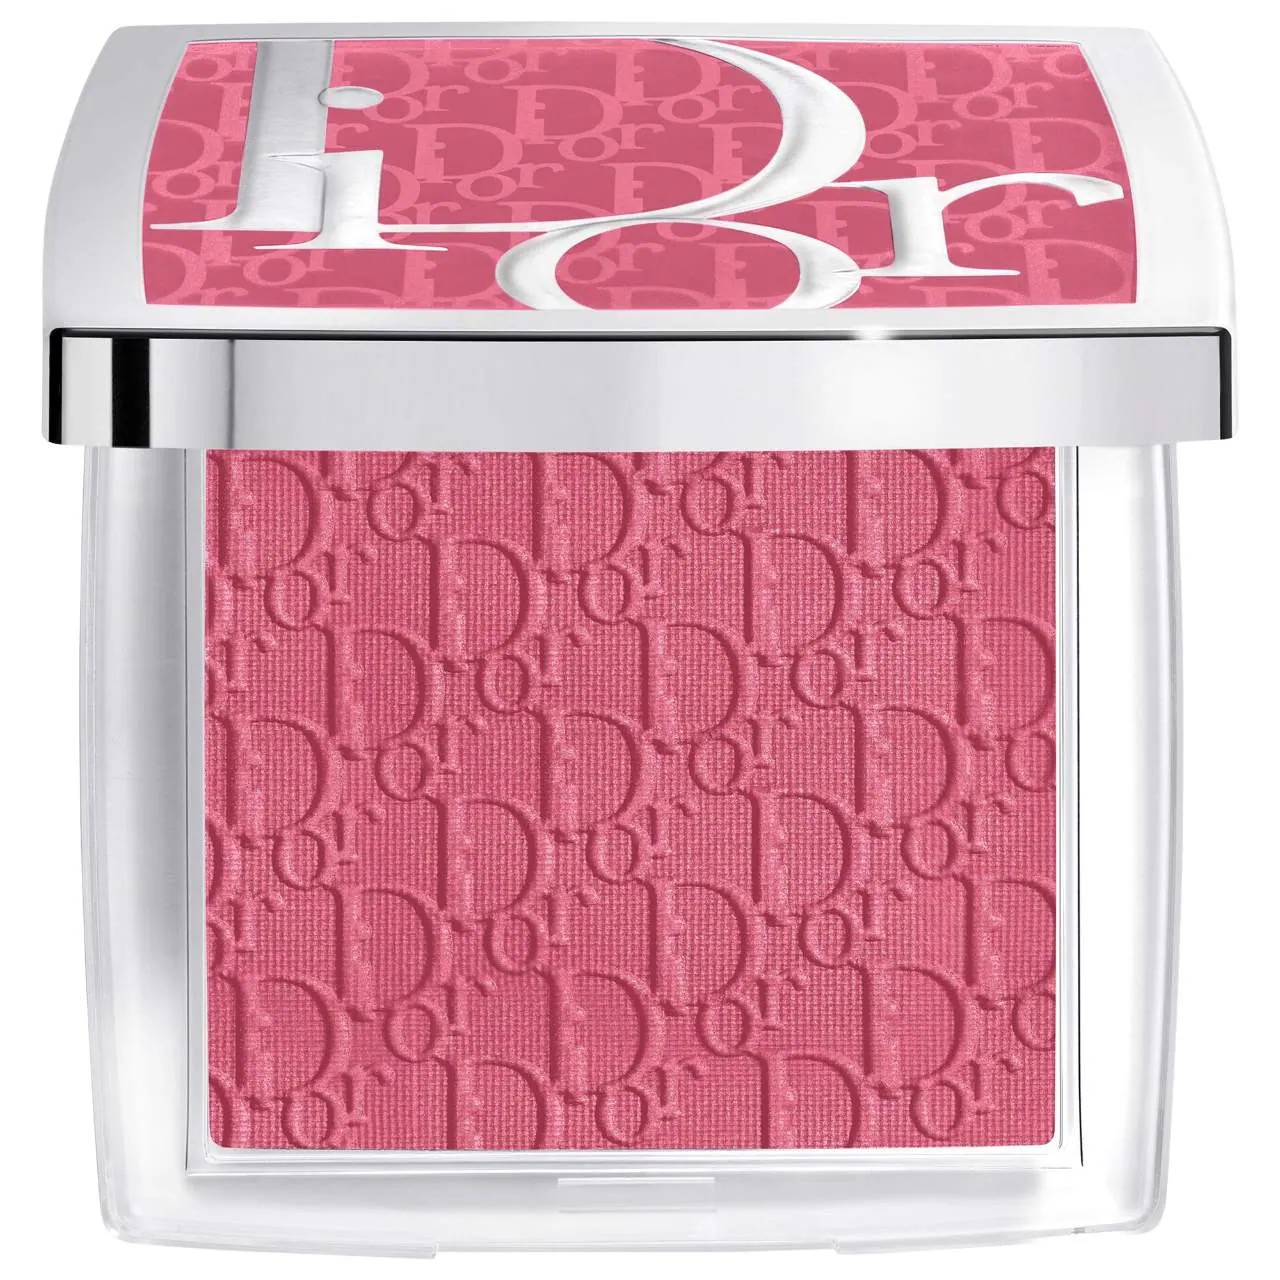
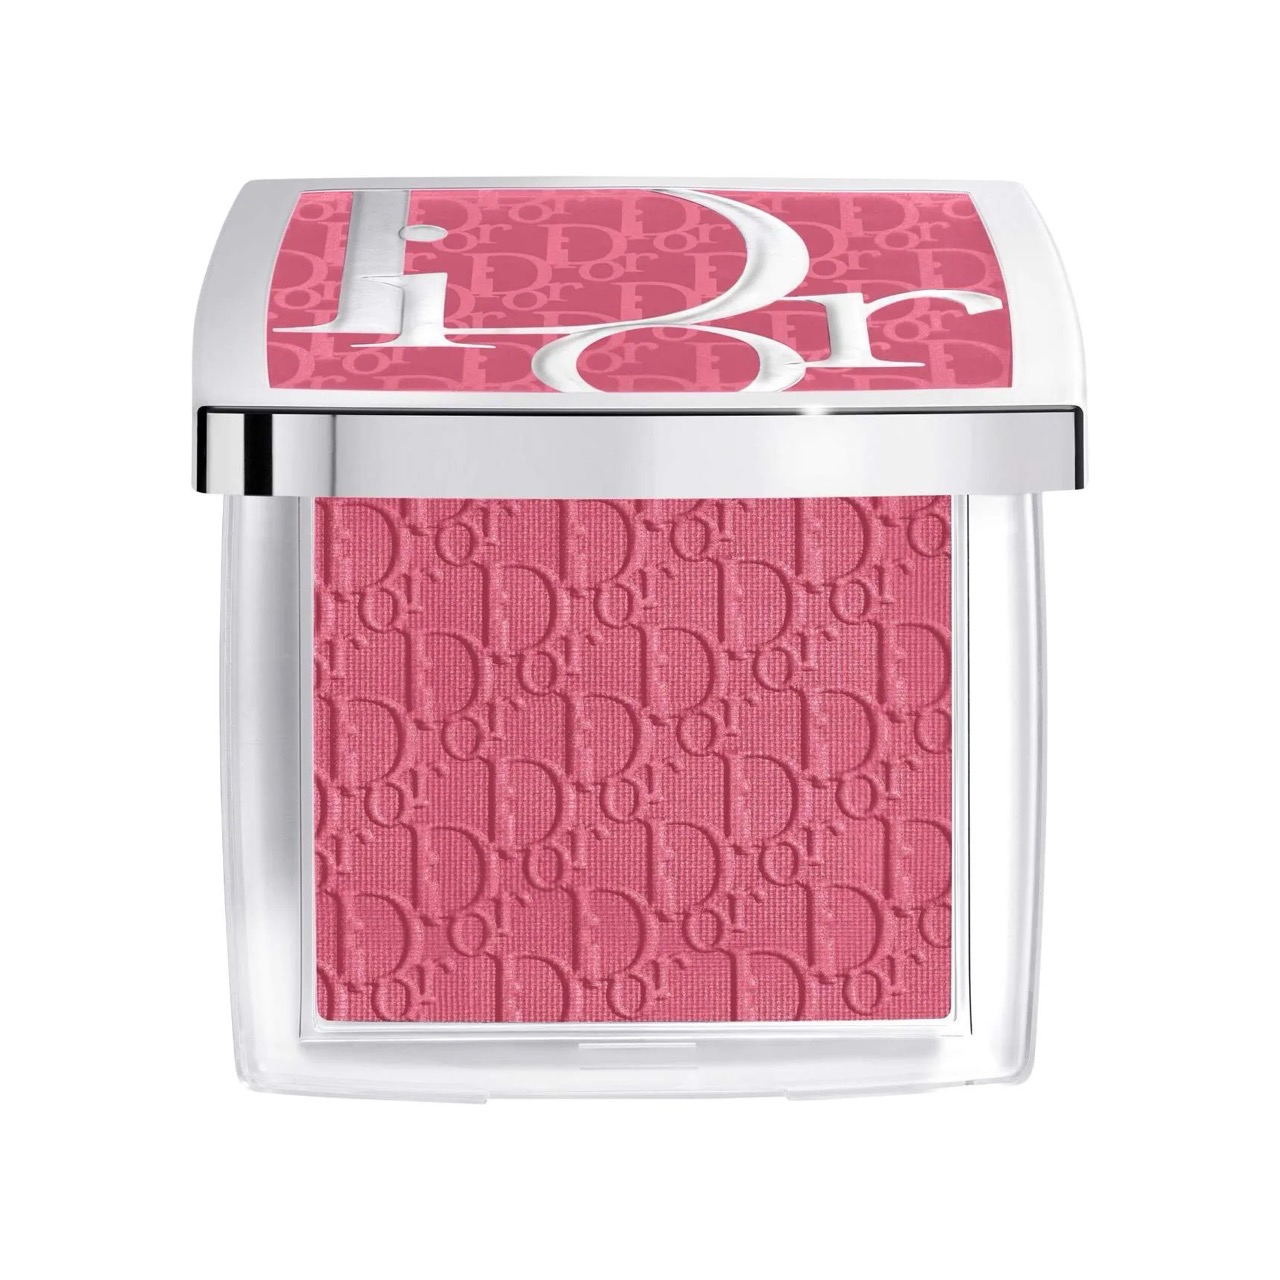
fix: corrige fotos e adiciona produtos conforme revisão
- Dior Lip Glow Oil: separado em 2 produtos (Rosa e Mocha Brilhante)
- Dior Rosy Glow Blush: separado em 2 produtos (Rosa e Toffee) + zoom-out
- Givenchy: fotos e produtos corrigidos para Le Rouge Sheer Velvet (Rouge Graine e Beige Sablé)
- Fenty Beauty: fotos reais por tom (Golden Ivory, Honey, Toffee) + Gloss Bomb foto corrigida
- YSL Loveshine: fotos corrigidas com cores reais (California Sunshine, Lucky Moonstone)
- Apple: adicionado em masculino e feminino (BRANDS_BY_GENDER + produtos IDs 287-288)
- Promo "3 por R$189,90": restrita a produtos VS com tag fragrance
- 8 novos body splash VS Mist (IDs 289-296) com foto real da embalagem spray
- iPhone 16 Pro Max: foto atualizada com imagem da pasta new_clothes

diff --git a/main.js b/main.js
@@ -2027,17 +2027,33 @@ const PRODUCTS = [
     id: 254, brand: 'Christian Dior', gender: 'feminino',
     tags: ['acessorio'],
     price: 259.20,
-    name: 'Lip Glow Oil Hydrating High-Shine Gloss',
-    images: ['feminino/dior/dior-lip-glow-oil-1.jpg', 'feminino/dior/dior-lip-glow-oil-2.jpg'],
-    description: 'Óleo labial Dior Lip Glow Oil de alto brilho com fórmula hidratante — realça a cor natural dos lábios com efeito glossy sofisticado. Disponível nos acabamentos clássico e shimmer.',
+    name: 'Lip Glow Oil Hydrating High-Shine Gloss Rosa',
+    images: ['feminino/dior/dior-lip-glow-oil-1.jpg'],
+    description: 'Óleo labial Dior Lip Glow Oil de alto brilho em Rosa — fórmula hidratante que realça a cor natural dos lábios com efeito glossy rosado e luminoso. Ícone de beleza da maison.',
+  },
+  {
+    id: 285, brand: 'Christian Dior', gender: 'feminino',
+    tags: ['acessorio'],
+    price: 259.20,
+    name: 'Lip Glow Oil Hydrating High-Shine Gloss Mocha Brilhante',
+    images: ['feminino/dior/dior-lip-glow-oil-2.jpg'],
+    description: 'Óleo labial Dior Lip Glow Oil em Mocha Brilhante — acabamento shimmer com brilho intenso e toque nudes quente. Hidratação luxuosa com a sofisticação da maison parisiense.',
   },
   {
     id: 255, brand: 'Christian Dior', gender: 'feminino',
     tags: ['acessorio'],
     price: 264.00,
-    name: 'Rosy Glow Powder Blush',
-    images: ['feminino/dior/dior-rosy-glow-blush-pink.jpg', 'feminino/dior/dior-rosy-glow-blush-toffee.jpg'],
-    description: 'Blush Dior Rosy Glow em pó com tecnologia que reage à temperatura da pele — realça o frescor natural nas tonalidades Pink e Toffee. Acabamento luminoso de longa duração.',
+    name: 'Rosy Glow Powder Blush Rosa',
+    images: ['feminino/dior/dior-rosy-glow-blush-pink.jpg'],
+    description: 'Blush Dior Rosy Glow em pó na tonalidade Rosa — tecnologia que reage à temperatura da pele e realça o frescor natural. Acabamento luminoso duradouro da maison.',
+  },
+  {
+    id: 286, brand: 'Christian Dior', gender: 'feminino',
+    tags: ['acessorio'],
+    price: 264.00,
+    name: 'Rosy Glow Powder Blush Toffee',
+    images: ['feminino/dior/dior-rosy-glow-blush-toffee.jpg'],
+    description: 'Blush Dior Rosy Glow em pó na tonalidade Toffee — dourado quente que realça o frescor natural da pele com acabamento luminoso sofisticado. Tecnologia exclusiva Dior.',
   },
 
   /* ══════════════════════════════════════════════════
@@ -2159,17 +2175,17 @@ const PRODUCTS = [
     id: 267, brand: 'YSL', gender: 'feminino',
     tags: ['acessorio'],
     price: 259.20,
-    name: 'Loveshine Plumping Lip Oil Gloss Dourado',
-    images: ['feminino/ysl/ysl-loveshine-lip-oil-gold.jpg'],
-    description: 'Lip oil YSL Loveshine com ácido hialurônico — fórmula volumizadora em tom dourado shimmer que hidrata e realça os lábios com alto brilho sofisticado.',
+    name: 'Loveshine Plumping Lip Oil Gloss California Sunshine',
+    images: ['feminino/ysl/ysl-loveshine-lip-oil-california-sunshine.jpg'],
+    description: 'Lip oil YSL Loveshine com ácido hialurônico em California Sunshine — tom laranja vibrante e luminoso que volumiza e hidrata os lábios com alto brilho de alta costura.',
   },
   {
     id: 268, brand: 'YSL', gender: 'feminino',
     tags: ['acessorio'],
     price: 259.20,
-    name: 'Loveshine Plumping Lip Oil Gloss',
-    images: ['feminino/ysl/ysl-loveshine-lip-oil.jpg'],
-    description: 'Lip oil YSL Loveshine com ácido hialurônico — fórmula volumizadora transparente que hidrata e realça os lábios com brilho natural de alta costura.',
+    name: 'Loveshine Plumping Lip Oil Gloss Lucky Moonstone',
+    images: ['feminino/ysl/ysl-loveshine-lip-oil-lucky-moonstone.jpg'],
+    description: 'Lip oil YSL Loveshine com ácido hialurônico em Lucky Moonstone — pérola rosada translúcida que ilumina e volumiza os lábios com o brilho iridescente da maison.',
   },
 
   /* ══════════════════════════════════════════════════
@@ -2236,15 +2252,19 @@ const PRODUCTS = [
     tags: ['acessorio'],
     price: 91.20, originalPrice: 182.40,
     name: 'Bright Fix Eye Brightener Concealer',
-    images: ['feminino/fenty-beauty/fenty-bright-fix-concealer.jpg'],
-    description: 'Corretivo iluminador Fenty Beauty Bright Fix by Rihanna — fórmula de longa duração que ilumina e cobre imperfeições. Ampla gama de tons com acabamento natural luminoso.',
+    images: [
+      'feminino/fenty-beauty/fenty-bright-fix-golden-ivory.jpg',
+      'feminino/fenty-beauty/fenty-bright-fix-honey.jpg',
+      'feminino/fenty-beauty/fenty-bright-fix-toffee.jpg',
+    ],
+    description: 'Corretivo iluminador Fenty Beauty Bright Fix by Rihanna — fórmula de longa duração que ilumina e cobre imperfeições. Disponível nos tons Golden Ivory, Honey e Toffee.',
   },
   {
     id: 275, brand: 'Fenty Beauty', gender: 'feminino',
     tags: ['acessorio'],
     price: 86.40, originalPrice: 172.80,
     name: 'Gloss Bomb Stix High-Shine Gloss Stick Vermelho',
-    images: ['feminino/fenty-beauty/fenty-gloss-bomb-stix.jpg'],
+    images: ['feminino/fenty-beauty/fenty-gloss-bomb-stix-red.jpg'],
     description: 'Gloss labial sólido Fenty Beauty Gloss Bomb Stix em vermelho — fórmula em stick de aplicação prática com brilho intenso e hidratação. O hit de beleza de Rihanna.',
   },
 
@@ -2254,18 +2274,18 @@ const PRODUCTS = [
   {
     id: 276, brand: 'Givenchy', gender: 'feminino',
     tags: ['acessorio'],
-    price: 216.00, originalPrice: 432.00,
-    name: 'Rouge Interdit Intense Silk Satin Matte Lipstick',
-    images: ['feminino/givenchy/givenchy-rouge-interdit-45.jpg'],
-    description: 'Batom Givenchy Rouge Interdit Intense Silk Satin Matte — acabamento acetinado-matte de alta cobertura com partículas de seda. Cor intensa de longa duração da maison parisiense.',
+    price: 216.00, originalPrice: 288.00,
+    name: 'Le Rouge Sheer Velvet Matte Lipstick Rouge Graine',
+    images: ['feminino/givenchy/givenchy-le-rouge-sheer-velvet-rouge-graine.jpg', 'feminino/givenchy/givenchy-le-rouge-sheer-velvet.jpg'],
+    description: 'Batom Givenchy Le Rouge Sheer Velvet Matte em Rouge Graine — textura aveludada levíssima com cobertura matte e alta pigmentação. A elegância parisiense em vermelho intenso.',
   },
   {
     id: 277, brand: 'Givenchy', gender: 'feminino',
     tags: ['acessorio'],
-    price: 182.40, originalPrice: 240.00,
-    name: 'Rouge Interdit Intense Silk Lipstick Red Light',
-    images: ['feminino/givenchy/givenchy-rouge-interdit-red-light.jpg'],
-    description: 'Batom Givenchy Rouge Interdit em Red Light — vermelho translúcido que realça a cor natural dos lábios com acabamento acetinado brilhante. Sofisticação francesa em promoção.',
+    price: 216.00, originalPrice: 288.00,
+    name: 'Le Rouge Sheer Velvet Matte Lipstick Beige Sable',
+    images: ['feminino/givenchy/givenchy-le-rouge-sheer-velvet-beige-sable.jpg'],
+    description: 'Batom Givenchy Le Rouge Sheer Velvet Matte em Beige Sablé — nude sofisticado com textura velvet de longa duração. O beige perfeito da maison parisiense para todos os tons de pele.',
   },
 
   /* ══════════════════════════════════════════════════
@@ -2287,9 +2307,9 @@ const PRODUCTS = [
     id: 279, brand: 'Jordan', gender: 'masculino',
     tags: ['camiseta'],
     price: 648.00,
-    name: 'Brasil 2026 Away Replica Jersey Old Royal',
+    name: 'Brasil 2026 Away Jersey Old Royal',
     images: ['masculino/jordan/jordan-brasil-away-jersey.jpg'],
-    description: 'Camisa réplica Jordan × Seleção Brasileira Away 2026 em Old Royal e preto — edição especial Copa do Mundo com tecnologia Dri-FIT e detalhes em dourado. Para os apaixonados pelo Brasil.',
+    description: 'Camisa Jordan × Seleção Brasileira Away 2026 em Old Royal e preto — edição especial Copa do Mundo com tecnologia Dri-FIT e detalhes em dourado. Para os apaixonados pelo Brasil.',
   },
 
   /* ══════════════════════════════════════════════════
@@ -2310,7 +2330,7 @@ const PRODUCTS = [
   {
     id: 281, brand: 'Dyson', gender: 'feminino',
     tags: ['acessorio'],
-    price: 2880.00,
+    price: 2979.90,
     name: 'Airstrait™ Dryer & Straightener Prussian Blue',
     images: ['feminino/dyson/dyson-airstrait.jpg'],
     description: 'Secador e chapinha Dyson Airstrait™ em Prussian Blue/Copper — seca e alisa simultaneamente sem calor extremo. Tecnologia Dyson para cabelos lisos e sedosos com proteção máxima.',
@@ -2318,7 +2338,7 @@ const PRODUCTS = [
   {
     id: 282, brand: 'Dyson', gender: 'feminino',
     tags: ['acessorio'],
-    price: 3115.20,
+    price: 3275.20,
     name: 'Airwrap i.d.™ Multi-Styler Prussian Blue',
     images: ['feminino/dyson/dyson-airwrap.jpg'],
     description: 'Multi-styler Dyson Airwrap i.d.™ em Prussian Blue/Rich Copper — molda, ondula e alisa com fluxo de ar Coanda sem calor extremo. O aparelho mais desejado de cabelo do mundo.',
@@ -2338,10 +2358,94 @@ const PRODUCTS = [
   {
     id: 284, brand: 'Apple', gender: 'feminino',
     tags: ['acessorio'],
-    price: 8399.95,
+    price: 7789.90,
     name: 'iPhone 17 Pro Max 256GB Cosmic Orange',
     images: ['feminino/apple/iphone-17-pro-max.jpg'],
     description: 'Apple iPhone 17 Pro Max 256GB Cosmic Orange desbloqueado — o topo de linha Apple com câmera profissional de nova geração, chip A19 Pro e design em titânio cor exclusiva.',
+  },
+  {
+    id: 287, brand: 'Apple', gender: 'masculino',
+    tags: ['acessorio'],
+    price: 5275.20,
+    name: 'iPhone 16 Pro Max 256GB Desert Titanium (Recondicionado)',
+    images: ['feminino/apple/iphone-16-pro-max.jpg'],
+    description: 'Apple iPhone 16 Pro Max 256GB em Desert Titanium desbloqueado — recondicionado em condição excelente. Chip A18 Pro, câmera 48MP ProRAW, tela Super Retina XDR de 6,9".',
+  },
+  {
+    id: 288, brand: 'Apple', gender: 'masculino',
+    tags: ['acessorio'],
+    price: 7789.90,
+    name: 'iPhone 17 Pro Max 256GB Cosmic Orange',
+    images: ['feminino/apple/iphone-17-pro-max.jpg'],
+    description: 'Apple iPhone 17 Pro Max 256GB Cosmic Orange desbloqueado — o topo de linha Apple com câmera profissional de nova geração, chip A19 Pro e design em titânio cor exclusiva.',
+  },
+
+  /* ══════════════════════════════════════════════════
+     VICTORIA'S SECRET — BODY SPLASH (MIST)
+  ══════════════════════════════════════════════════ */
+  {
+    id: 289, brand: "Victoria's Secret", gender: 'feminino',
+    tags: ['fragrance'],
+    price: 129.90,
+    name: 'Body Splash Bare Vanilla Fragrance Mist',
+    images: ['feminino/victorias-secret/vs-body-bare-vanilla-mist.jpg'],
+    description: 'Body splash Victoria\'s Secret Bare Vanilla — fragrância quente de baunilha pura em formato mist de longa duração. R$129,90 a unidade — PROMOÇÃO: 3 quaisquer por R$189,90.',
+  },
+  {
+    id: 290, brand: "Victoria's Secret", gender: 'feminino',
+    tags: ['fragrance'],
+    price: 129.90,
+    name: 'Body Splash Coconut Passion Fragrance Mist',
+    images: ['feminino/victorias-secret/vs-body-coconut-passion-mist.jpg'],
+    description: 'Body splash Victoria\'s Secret Coconut Passion — aroma tropical de coco tostado e sândalo em mist refrescante. R$129,90 a unidade — PROMOÇÃO: 3 quaisquer por R$189,90.',
+  },
+  {
+    id: 291, brand: "Victoria's Secret", gender: 'feminino',
+    tags: ['fragrance'],
+    price: 129.90,
+    name: 'Body Splash Gelato Oasis Fragrance Mist',
+    images: ['feminino/victorias-secret/vs-body-gelato-oasis-mist.jpg'],
+    description: 'Body splash Victoria\'s Secret Gelato Oasis — fragrância adocicada e frutada inspirada em oásis de verão, em spray refrescante. R$129,90 — PROMOÇÃO: 3 por R$189,90.',
+  },
+  {
+    id: 292, brand: "Victoria's Secret", gender: 'feminino',
+    tags: ['fragrance'],
+    price: 129.90,
+    name: 'Body Splash Isla Hibiscus Fragrance Mist',
+    images: ['feminino/victorias-secret/vs-body-isla-hibiscus-mist.jpg'],
+    description: 'Body splash Victoria\'s Secret Isla Hibiscus — floral tropical com hibisco vibrante e água de coco em mist leve e duradouro. R$129,90 — PROMOÇÃO: 3 por R$189,90.',
+  },
+  {
+    id: 293, brand: "Victoria's Secret", gender: 'feminino',
+    tags: ['fragrance'],
+    price: 129.90,
+    name: 'Body Splash Love Spell Fragrance Mist',
+    images: ['feminino/victorias-secret/vs-body-love-spell-mist.jpg'],
+    description: 'Body splash Victoria\'s Secret Love Spell — romântico floral de pêssego e jasmim em spray irresistível. R$129,90 a unidade — PROMOÇÃO: 3 quaisquer por R$189,90.',
+  },
+  {
+    id: 294, brand: "Victoria's Secret", gender: 'feminino',
+    tags: ['fragrance'],
+    price: 129.90,
+    name: 'Body Splash Midnight Blooms Fragrance Mist',
+    images: ['feminino/victorias-secret/vs-body-midnight-blooms-mist.jpg'],
+    description: 'Body splash Victoria\'s Secret Midnight Blooms — flores noturnas misteriosas sobre base almiscarada quente em mist de longa duração. R$129,90 — PROMOÇÃO: 3 por R$189,90.',
+  },
+  {
+    id: 295, brand: "Victoria's Secret", gender: 'feminino',
+    tags: ['fragrance'],
+    price: 129.90,
+    name: 'Body Splash Pina Tropicale Fragrance Mist',
+    images: ['feminino/victorias-secret/vs-body-pina-tropicale-mist.jpg'],
+    description: 'Body splash Victoria\'s Secret Piña Tropicale — abacaxi fresco e tropical em spray vibrante e duradouro. R$129,90 a unidade — PROMOÇÃO: 3 quaisquer por R$189,90.',
+  },
+  {
+    id: 296, brand: "Victoria's Secret", gender: 'feminino',
+    tags: ['fragrance'],
+    price: 129.90,
+    name: 'Body Splash Pure Seduction Fragrance Mist',
+    images: ['feminino/victorias-secret/vs-body-pure-seduction-mist.jpg'],
+    description: 'Body splash Victoria\'s Secret Pure Seduction — ameixa vermelha e fresia sedutora em mist leve e irresistível. R$129,90 a unidade — PROMOÇÃO: 3 quaisquer por R$189,90.',
   },
 ];
 
@@ -2349,7 +2453,7 @@ const PRODUCTS = [
    BRAND & CATEGORY LISTS
    ===================================================== */
 const BRANDS_BY_GENDER = {
-  masculino: ['Lacoste', 'Louis Vuitton', 'Nike', 'Jordan', 'Hugo Boss', 'Tommy Hilfiger', 'Hermès', 'Hoodrich', 'Supply & Demand', 'Valentino'],
+  masculino: ['Lacoste', 'Louis Vuitton', 'Nike', 'Jordan', 'Hugo Boss', 'Tommy Hilfiger', 'Hermès', 'Hoodrich', 'Supply & Demand', 'Valentino', 'Apple'],
   feminino:  ['Lacoste', 'Christian Dior', "Victoria's Secret", 'Guess', 'Michael Kors', 'Carolina Herrera', 'Prada', 'Versace', 'YSL', 'Kérastase', 'The Ordinary', 'Kate Spade', 'Lululemon', 'Fenty Beauty', 'Givenchy', 'Dyson', 'Apple'],
 };
 
@@ -2384,8 +2488,8 @@ function getPrimaryCategory(p) {
 }
 
 function getPromoTag(p) {
-  if (p.tags.includes('fragrance')) return '3 por R$189,90';
-  if (p.id === 220 || p.id === 221)  return '5 por R$209,90';
+  if (p.brand === "Victoria's Secret" && p.tags.includes('fragrance')) return '3 por R$189,90';
+  if (p.id === 220 || p.id === 221) return '5 por R$209,90';
   return null;
 }
 
